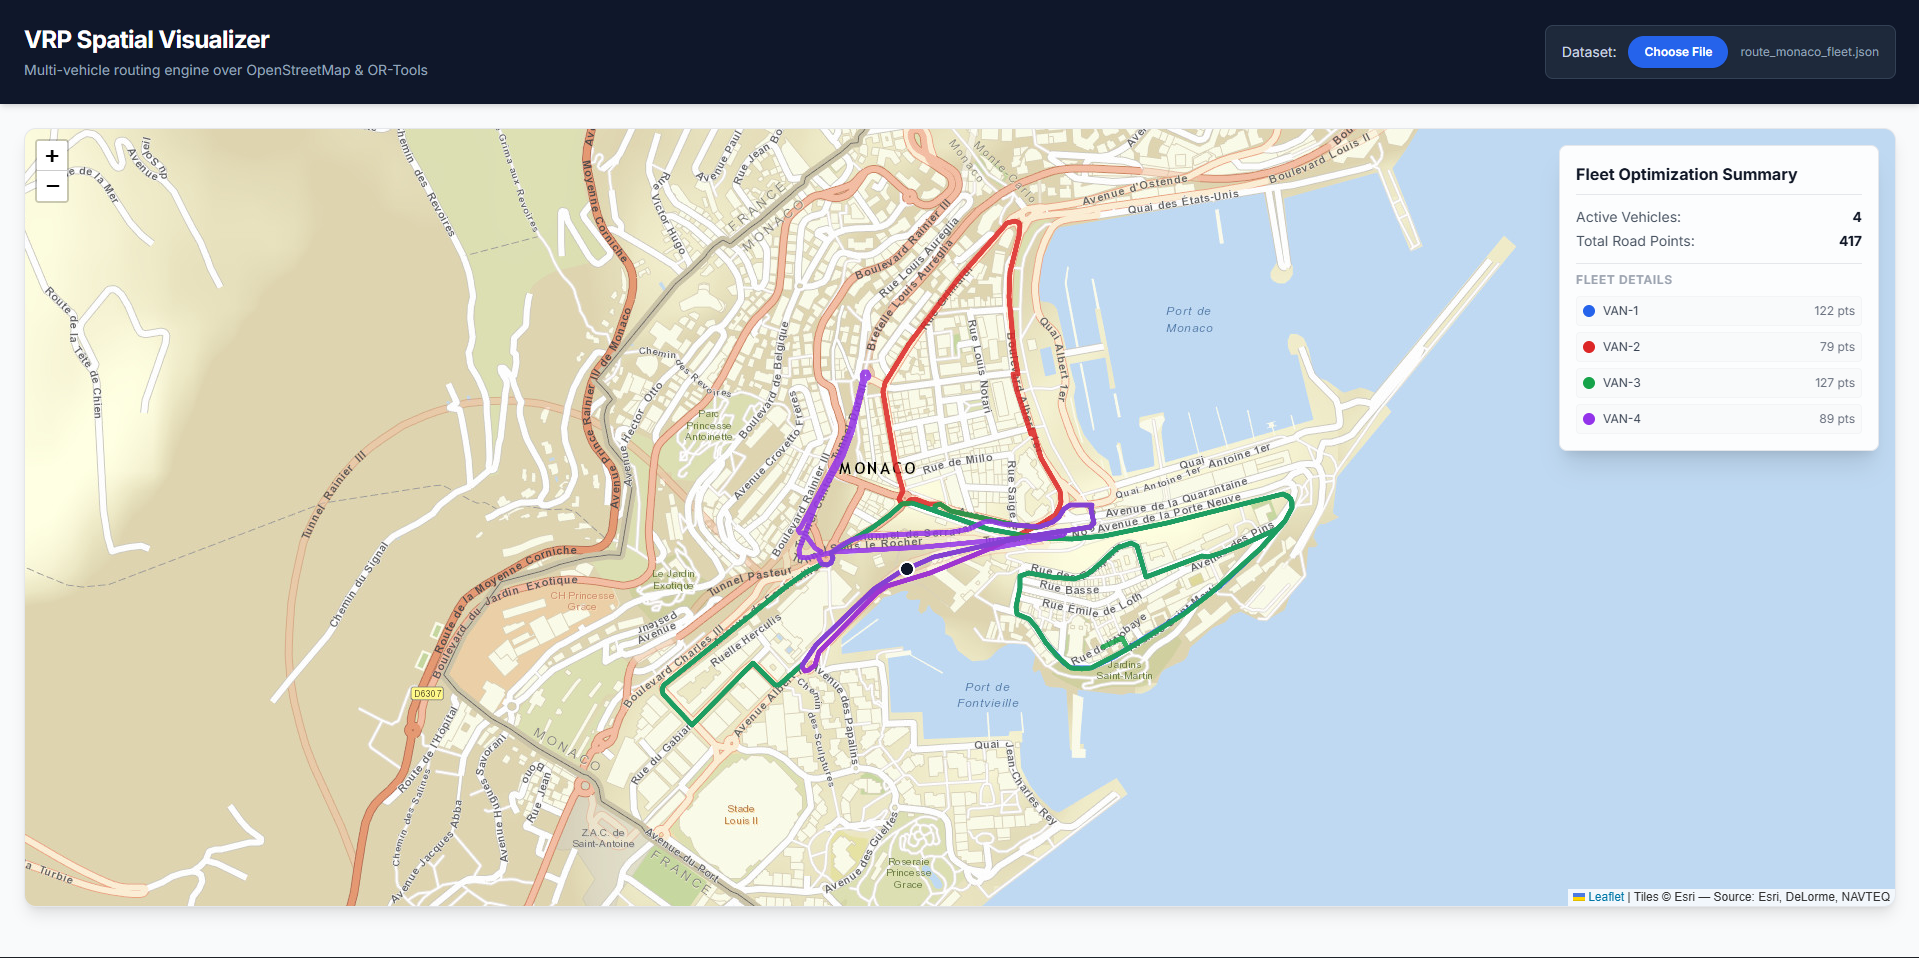
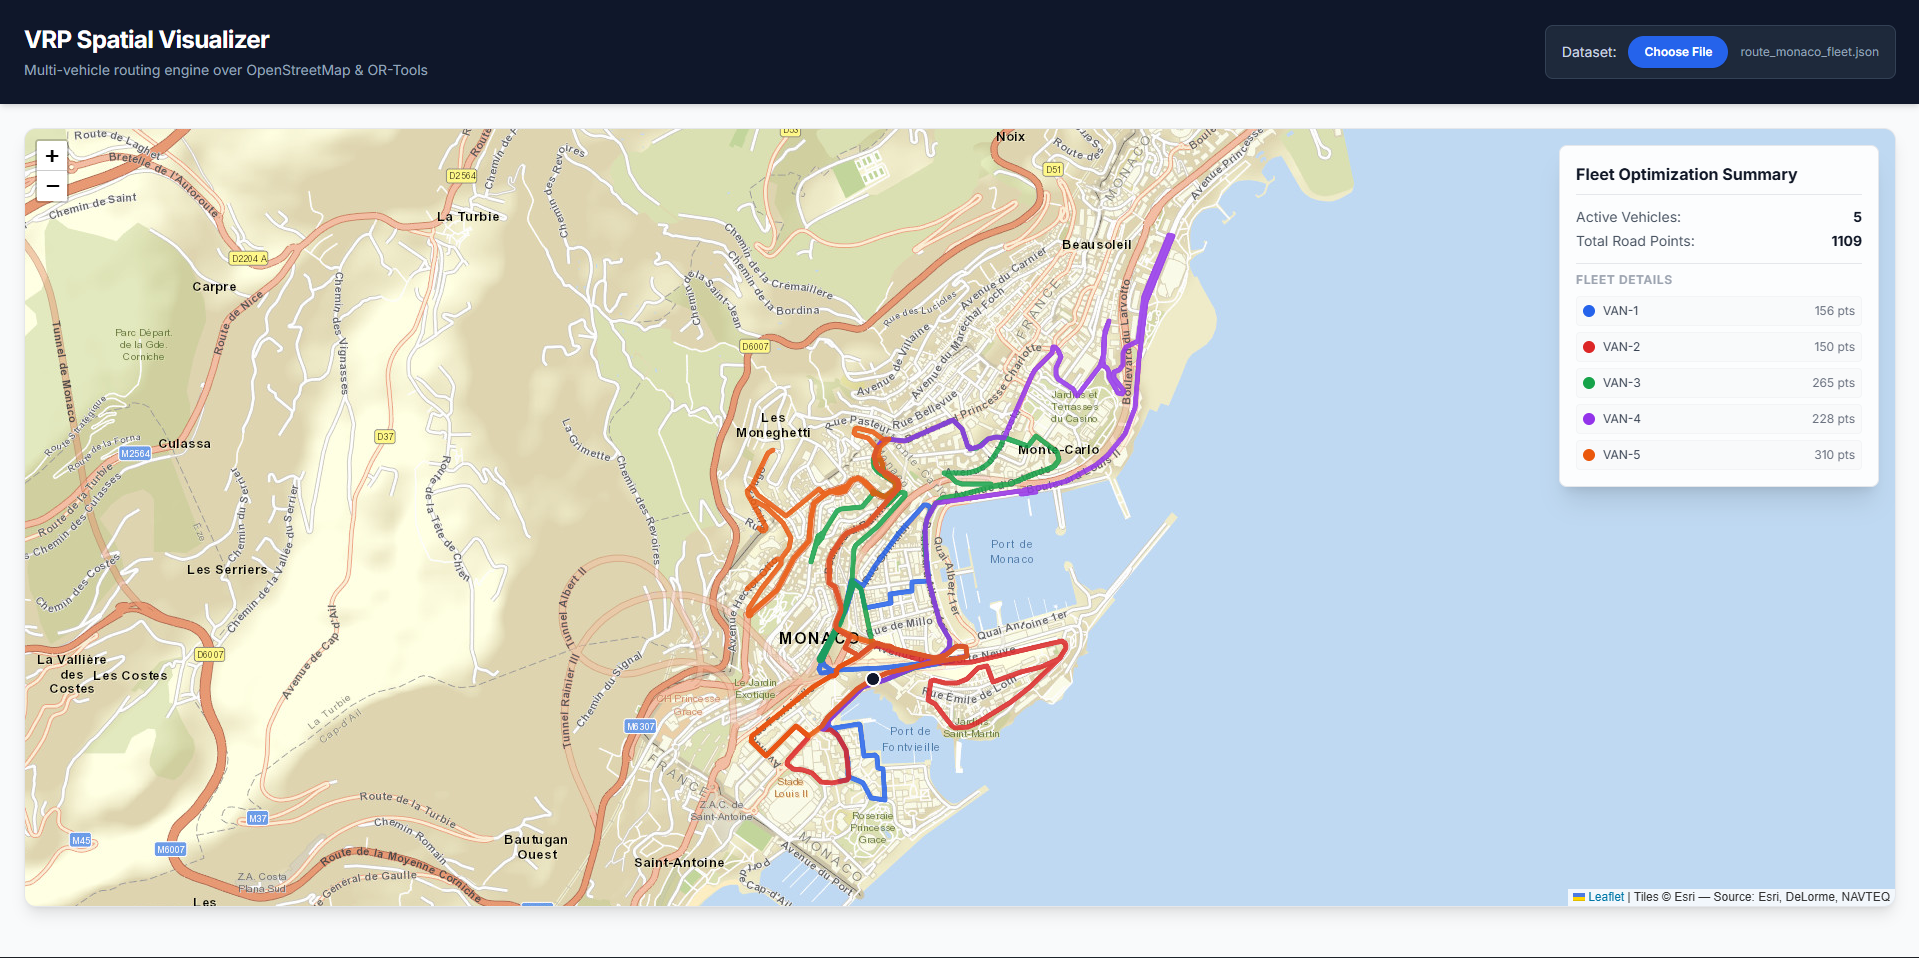
docs(readme): update visualizer preview with 5-vehicle fleet solution

diff --git a/src/main/java/main/Main.java b/src/main/java/main/Main.java
@@ -109,7 +109,7 @@ public class Main {
         Vehicle standardVan =
                 new Vehicle(
                         "VAN-BASE",
-                        20,
+                        150,
                         depot,
                         workingHours
                 );
